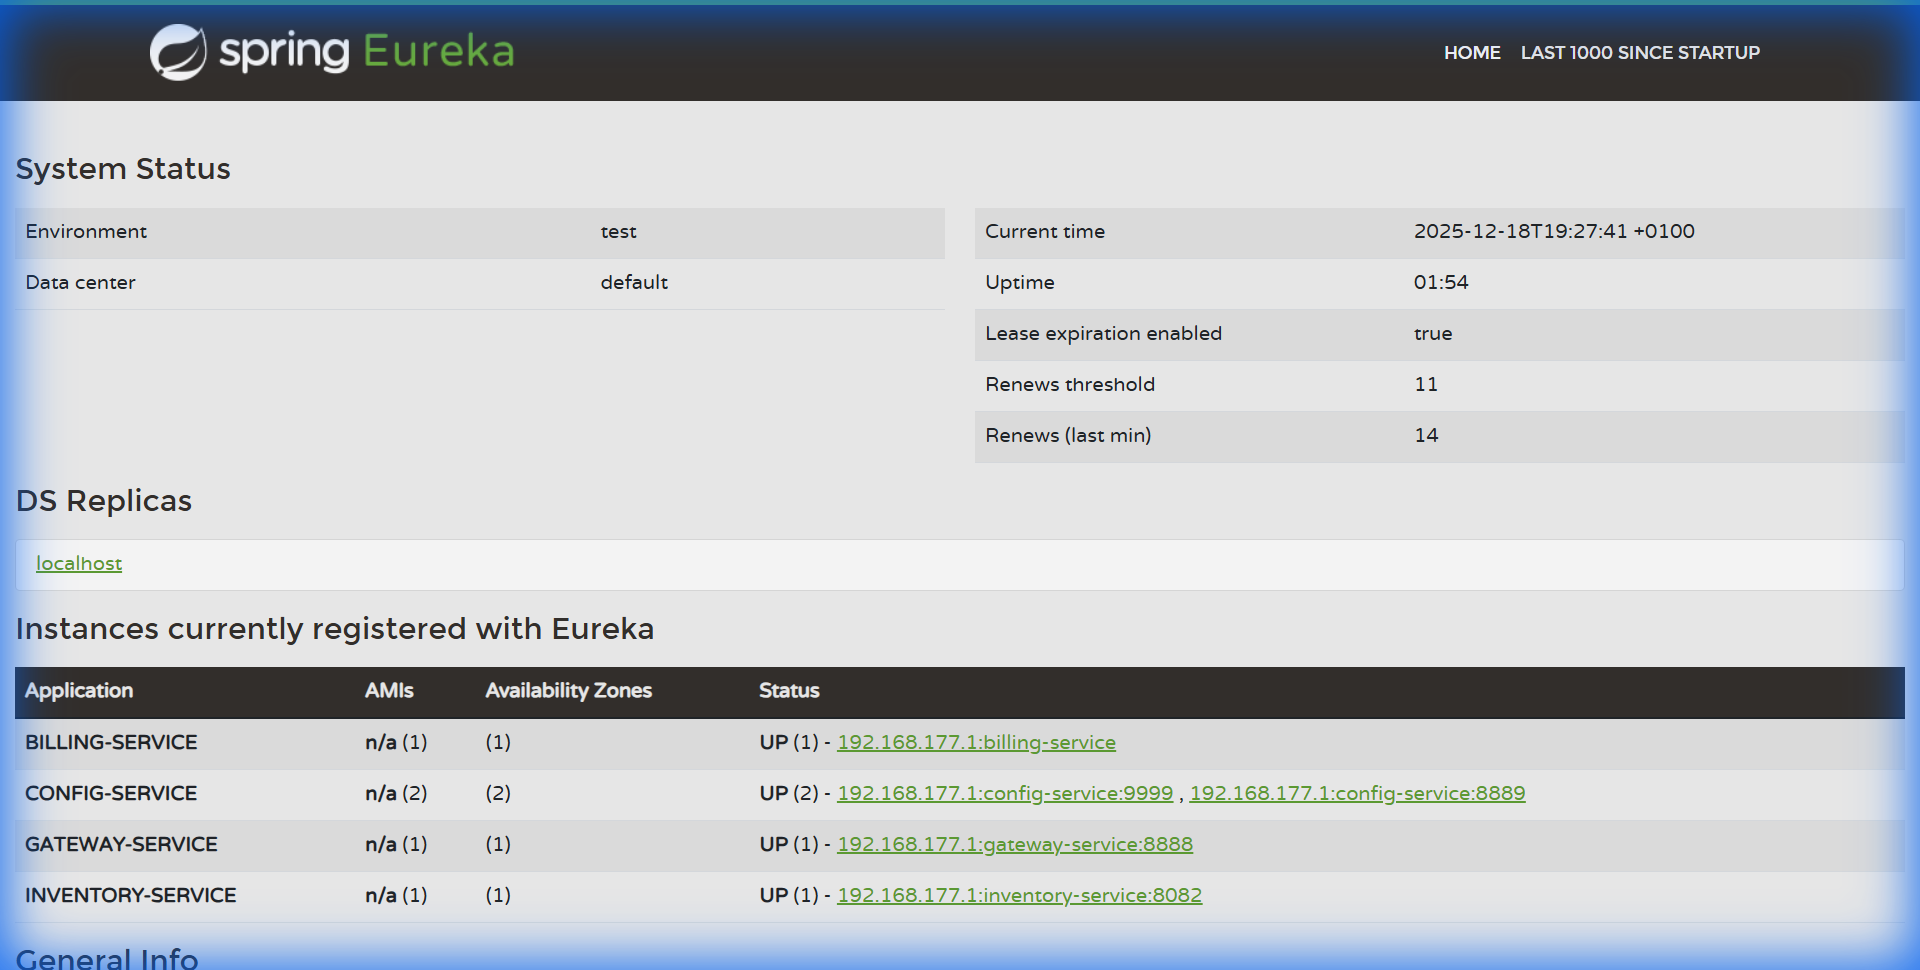
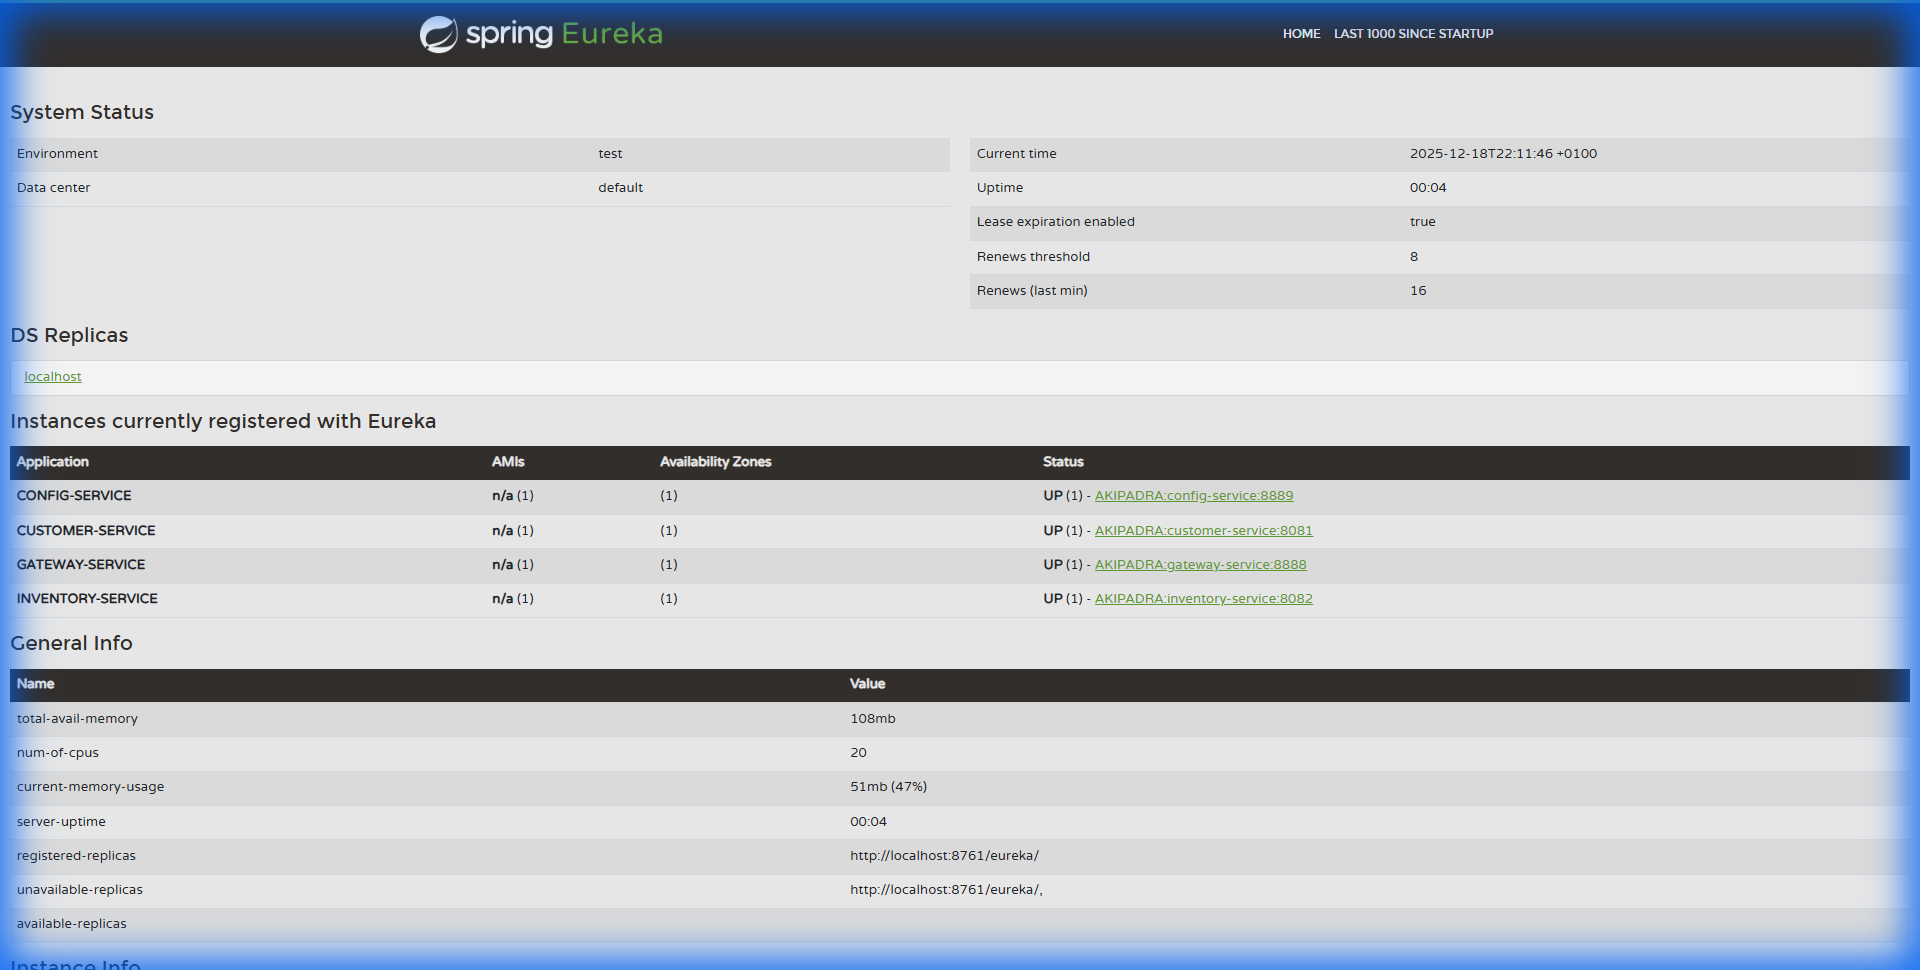
Update screenshots with populated Customer/Inventory data

diff --git a/README.md b/README.md
@@ -28,7 +28,7 @@ This project combines all activities into a complete microservices-based banking
 │ :8081  │    │   :8082   │ │ :8083 │  │  :8084  │   │   :8889   │
 └────────┘    └───────────┘ └───────┘  └─────────┘   └───────────┘
 ```
-
+![architecture micro servicees](screenshots/architecture micro ervicees.jpg)
 ## Services Included
 | Service | Port | Description |
 |---------|------|-------------|
@@ -93,8 +93,9 @@ Youssef Atertour - EMSI 2025
 **Customer Service H2 Console**
 ![H2 Console](screenshots/h2_console.png)
 
-**Customer REST API**
-![REST API](screenshots/rest_api.png)
+**Customer REST API (Populated)**
+![REST API](screenshots/customer_api_populated.png)
+
 
 **Inventory REST API (Populated)**
 ![Inventory API](screenshots/inventory_rest_api.png)
